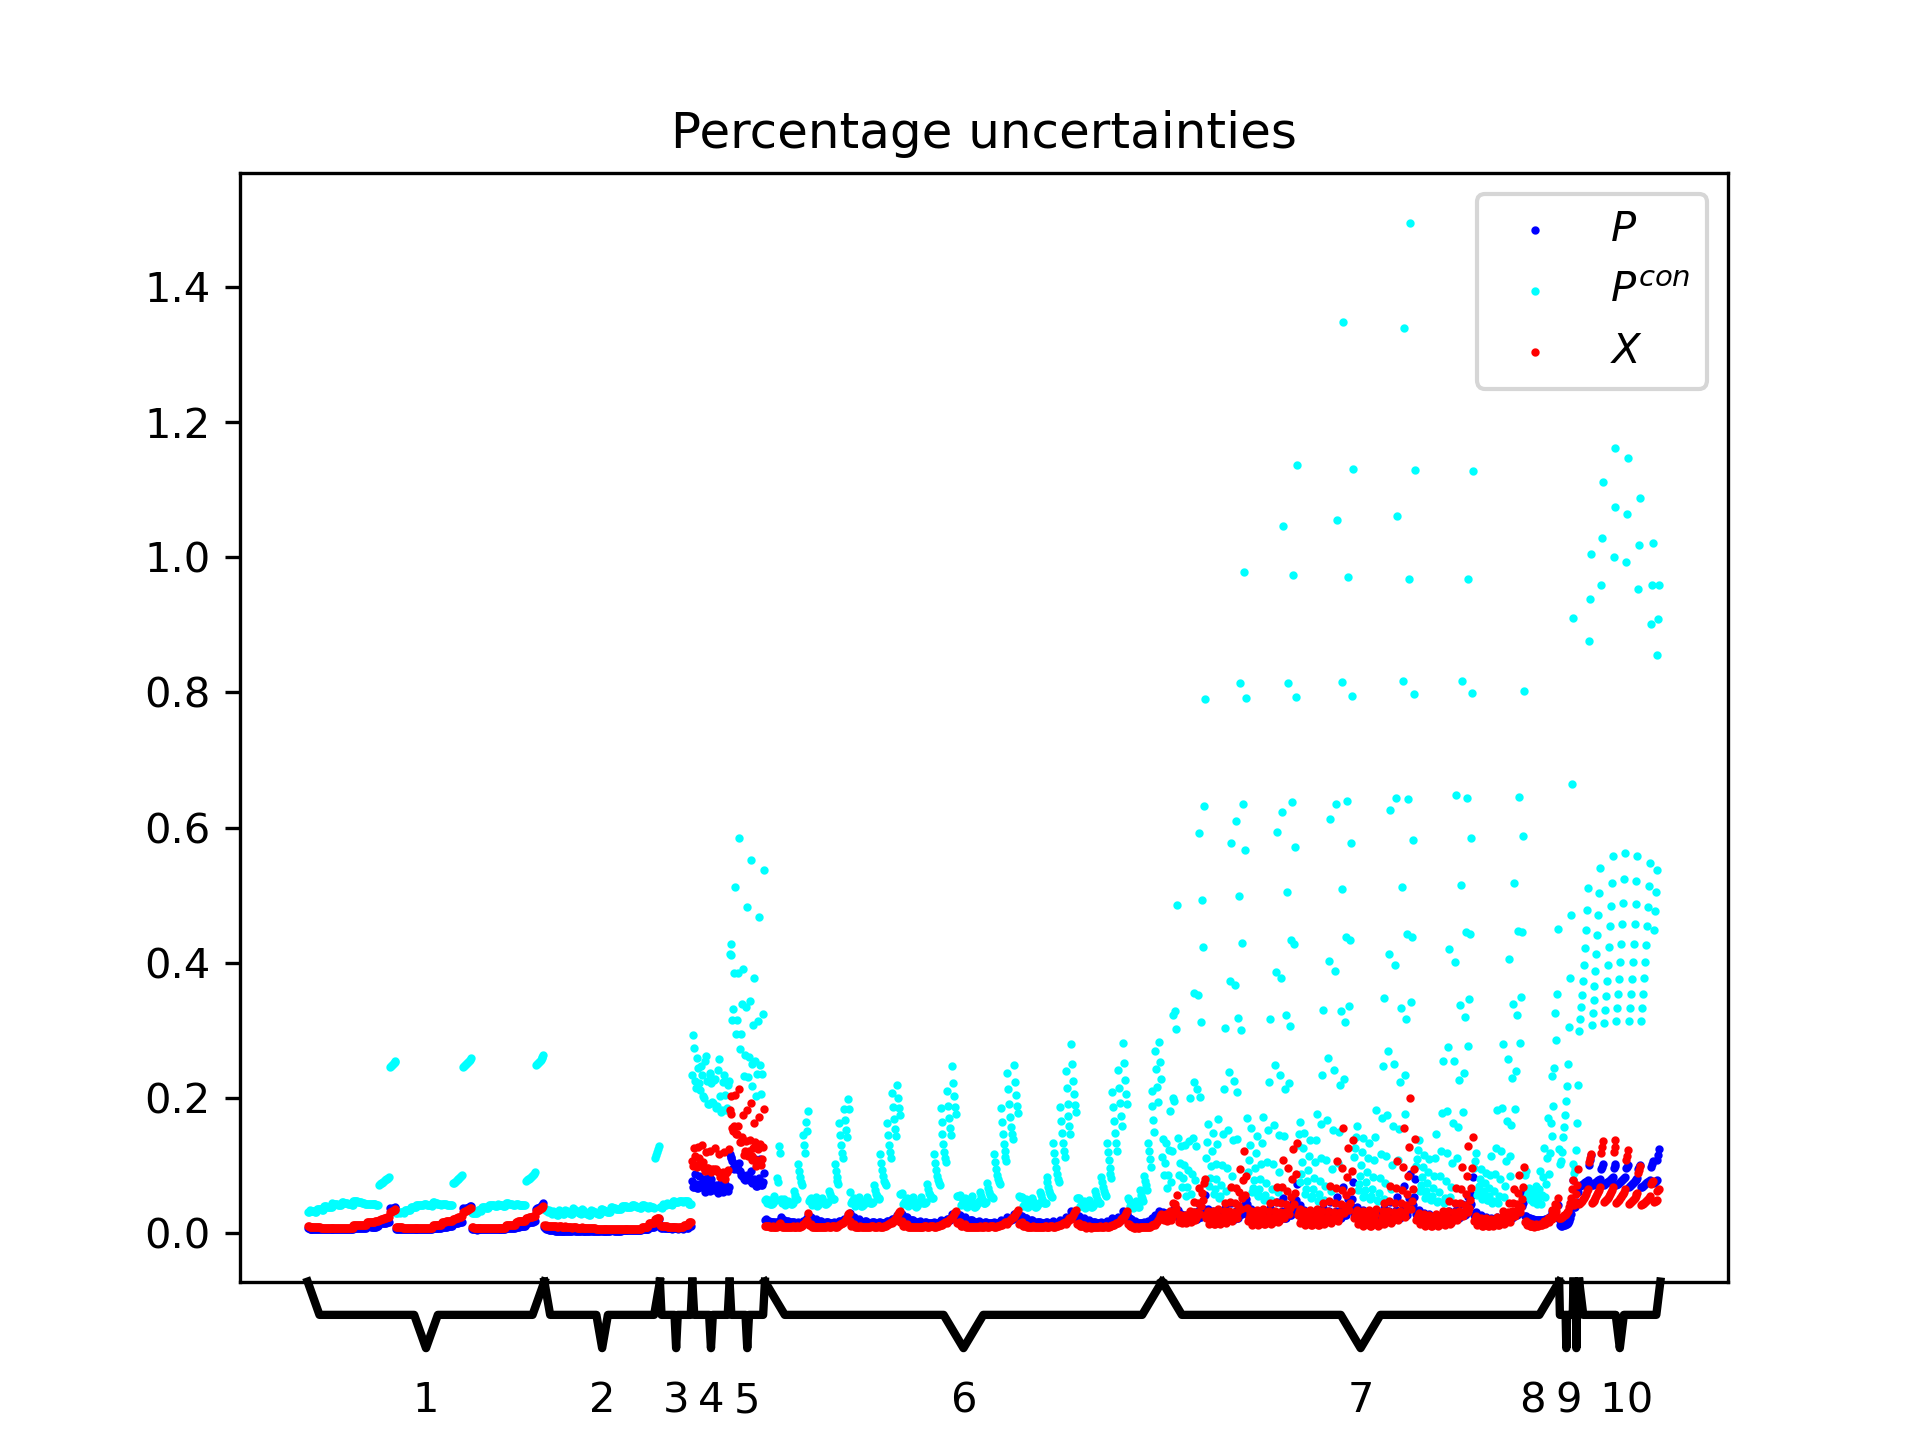
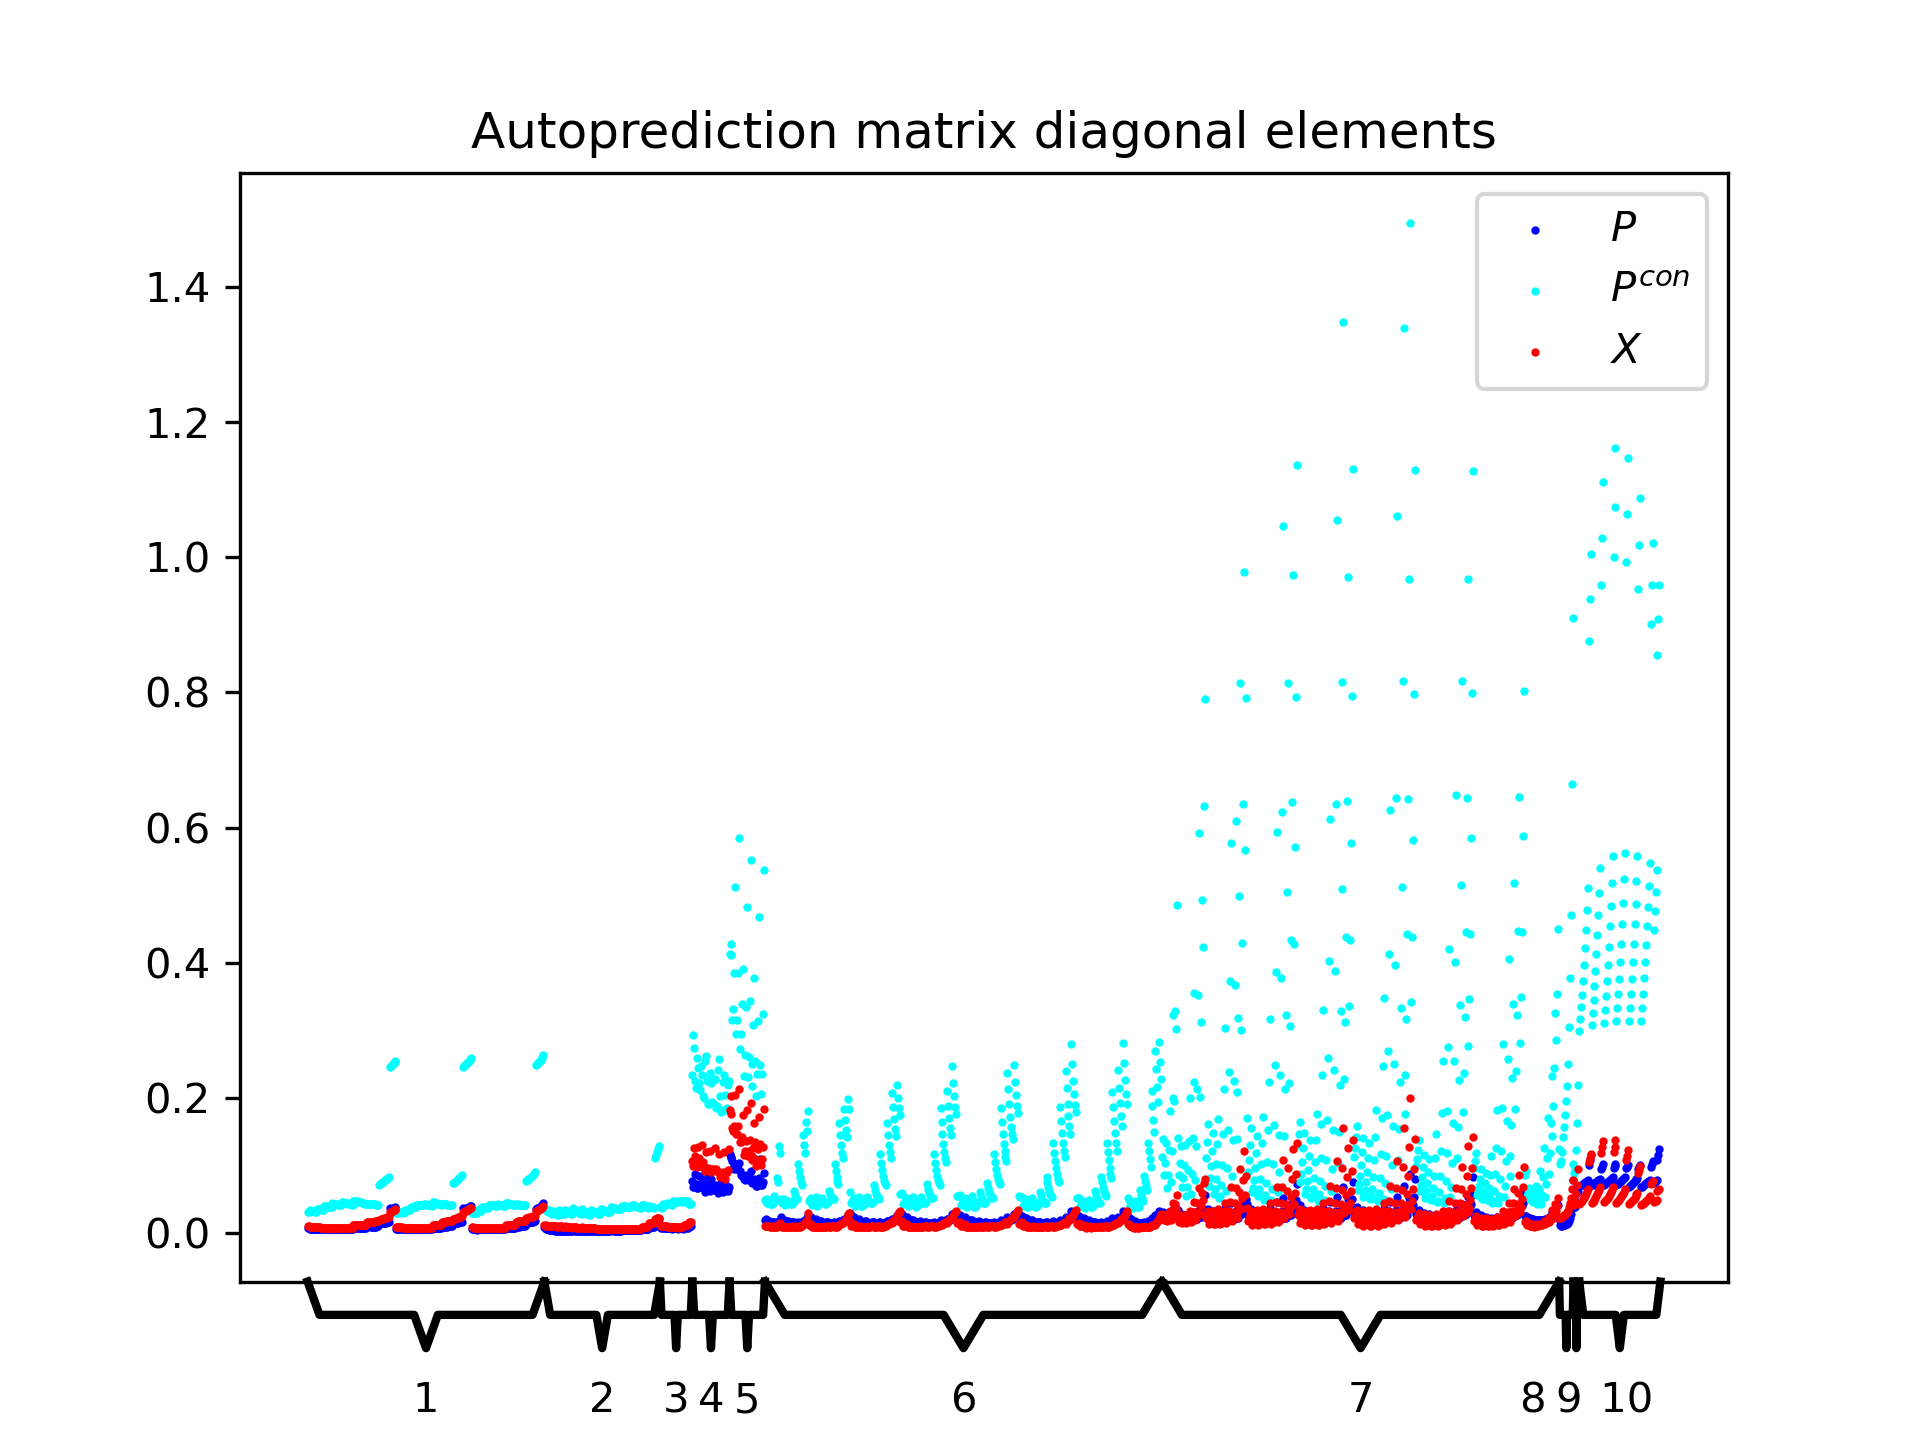
change plot title

Changed region(s): [[0.25, 0.0625, 0.7812, 0.125]]

diff --git a/output.py b/output.py
@@ -261,7 +261,7 @@ x = np.arange(len(P))
 plt.scatter(x, P_uncert, c='b', s=1, label=r'$P$')
 plt.scatter(x, Pc_uncert, c='cyan', s=1, label=r'$P^{con}$')
 plt.scatter(x, X_uncert, c='r', s=1, label=r'$X$')
-plt.title("Percentage uncertainties")
+plt.title("Autoprediction matrix diagonal elements")
 show_dataset_brackets(plt.gca())
 plt.gca().axes.xaxis.set_visible(False)
 plt.legend()
